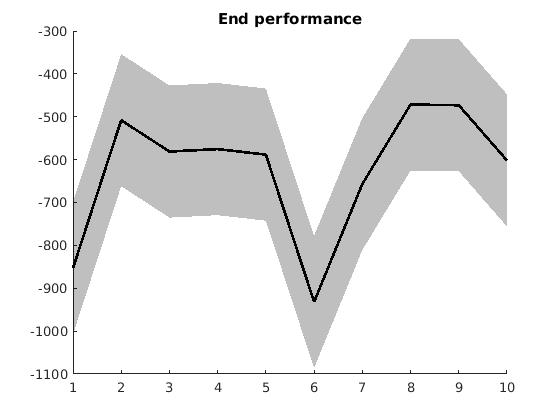
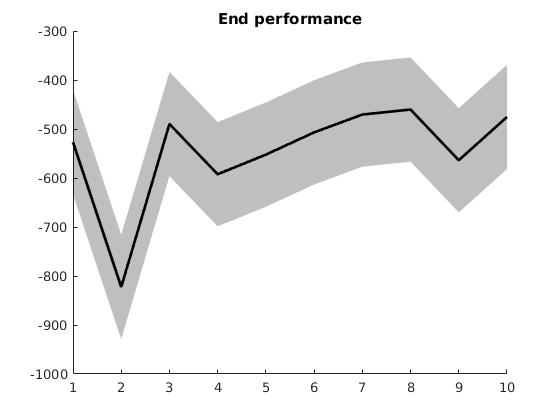
fixes test_harness, adds some plots

diff --git a/ex5/ac.m b/ex5/ac.m
@@ -1,4 +1,4 @@
-function [ep, rt, network] = ac(augmented_size, random)
+function [ep, rt, network, comp_time] = ac(augmented_size, random)
 %State-value actor-critic for the pendulum.
 %   [EP, RT] returns the end performance and rise time of state-value
 %   actor-critic on the underactuated pendulum swing-up.
@@ -11,7 +11,7 @@ function [ep, rt, network] = ac(augmented_size, random)
     beta = 0.01;
     gamma = 0.99;
     hidden_units = [10, 10];
-    num_episodes = 200;
+    num_episodes = 100;
     episode_length = 100;
     if ~exist('augmented_size', 'var')
         augmented_size = 20;
@@ -60,6 +60,8 @@ function [ep, rt, network] = ac(augmented_size, random)
     errors = zeros(numel(curve) / 5, 1);
     % Episodes
     epoch = 1;
+    comp_time = -1;
+    tic
     for ee = 1:numel(curve)
         sigma = sigma*0.99;
         
@@ -67,8 +69,11 @@ function [ep, rt, network] = ac(augmented_size, random)
         new_pendulum = @(k) pendulum(k(1:2), k(3));
         [theta, w, state_action, next_state, b, curve, sigma] = ...
             ac_loop(episode_length, new_pendulum, @feature, b, ...
-            state_action, next_state, ee, theta, w, curve, sigma, gamma, beta, alpha, random);
+            state_action, next_state, ee, theta, w, curve, sigma, gamma, beta, alpha, 0);
+        % After 10 episodes have elapsed, use NN to generate simulated
+        % experience
         if (ee >= 10)
+            % Re-trains the network every 5 episodes
             if rem(ee, 5) == 0
                 inputs = state_action(:, :, 5:ee);
                 targets = next_state(:, :, 5:ee);
@@ -103,8 +108,19 @@ function [ep, rt, network] = ac(augmented_size, random)
         if (rem(ee, 100) == 0)
             plotip(theta, w, @feature);
         end
+        if ee > 10
+            if comp_time == -1
+                if curve(ee-2: ee) > -1000
+                    comp_time = toc;
+                end
+            end
+        end
     end
-
+    
+    if comp_time == -1;
+        comp_time = toc;
+    end
+    
     ep = mean(curve(end-10:end));
     
     reached = curve > -1000;
@@ -114,5 +130,4 @@ function [ep, rt, network] = ac(augmented_size, random)
     function phi = feature(x)
         phi = gaussrbf(x, 11, 0.5);
     end
-
 end

diff --git a/ex5/ac_loop.m b/ex5/ac_loop.m
@@ -4,12 +4,9 @@ function [theta, w, state_action, next_state, b, curve, sigma] = ...
     x = [pi, 0];
     fx = feature(x);
     for ii=1:transitions
-        actor_u = fx'*theta;
-        if random == 1
-            u = rand() * 6 - 3;
-        else
-            u = actor_u+randn*sigma;
-        end
+        actor_u = fx'*theta;    
+        u = actor_u+randn*sigma;
+ 
 
         b(ii, 1:2) = x;
         b(ii, 3) = u;
@@ -17,7 +14,14 @@ function [theta, w, state_action, next_state, b, curve, sigma] = ...
         s(1:2) = x;
         s(3) = u;
         % Get next state
-        xP = transition_function(s);
+        if random == 1
+            xP(1) = rand() * 2 * pi - pi;
+            xP(2) = rand() * 24 * pi - 12 * pi;
+            xP = xP';
+        else
+            xP = transition_function(s);
+        end
+        % Breaks if state is out-of-bounds of system expected dynamics
         if xP(1) < -pi || xP(1) > pi || xP(2) < -12 * pi || xP(2) > 12 *pi
             break
         else
